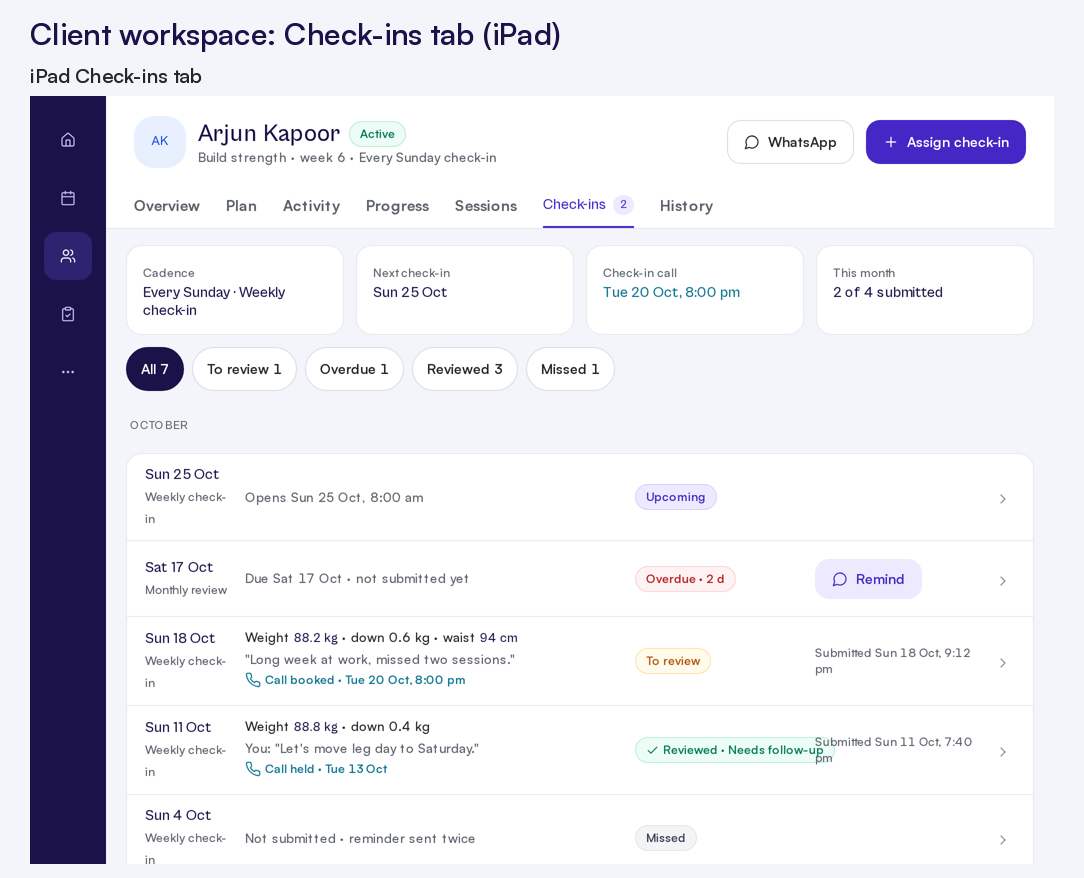
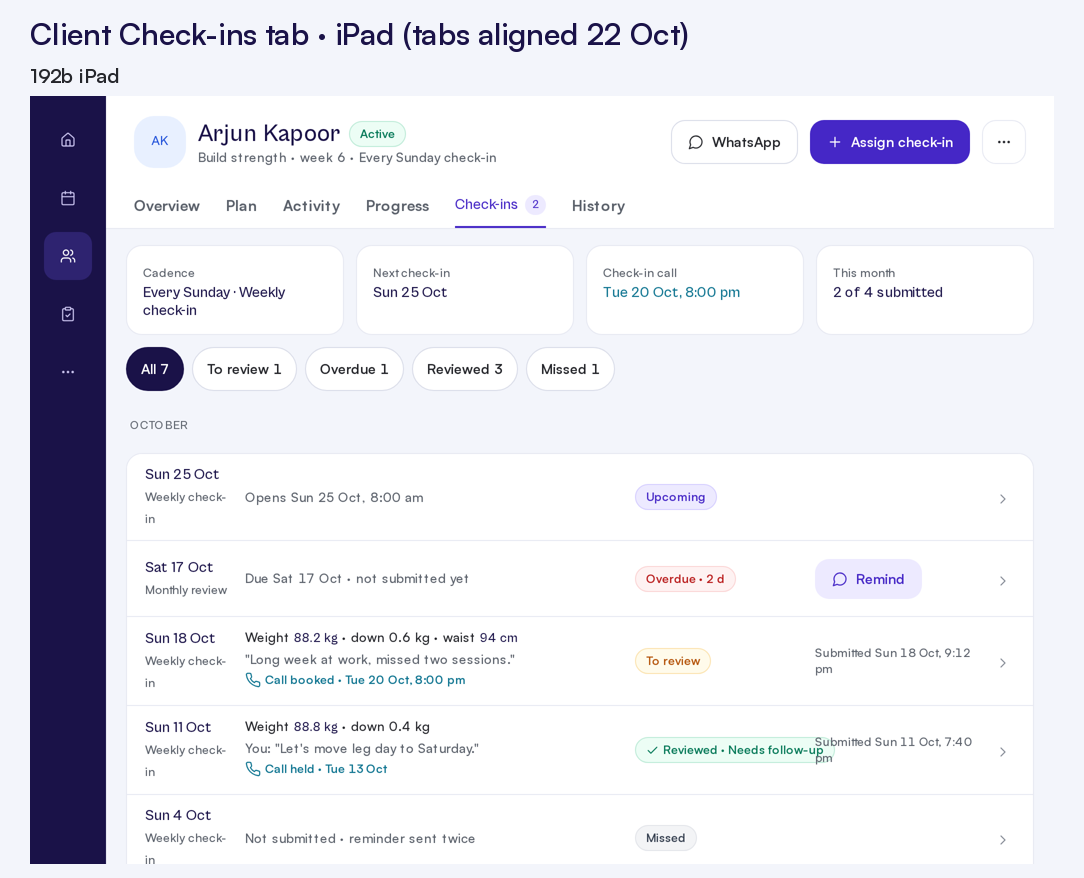
design: 22 Oct round compare sheets (P7–P11, before vs after), P6 regenerated, P2-web removed; README + DESIGN-NOTES (round notes, data gaps); banned-strings fix on 148

diff --git a/docs/design/mockups/html/148-trainer-web-configure-v3-web.html b/docs/design/mockups/html/148-trainer-web-configure-v3-web.html
@@ -76,4 +76,4 @@ h1{font-size:30px;font-weight:600;color:var(--navy);letter-spacing:-.3px}
 .mode{display:grid;grid-template-columns:repeat(3,1fr);gap:10px}.mode a{border:1px solid var(--border-strong);border-radius:14px;padding:12px 14px;font-size:13px;color:var(--ink-500);min-height:84px}.mode a b{display:flex;gap:6px;align-items:center;color:var(--navy);font-size:14px;font-weight:600;margin-bottom:4px}.mode a.on{border-color:var(--indigo);background:var(--lavender-50);box-shadow:inset 0 0 0 1px var(--indigo)}
 .et{width:100%;border-collapse:collapse;font-size:14px}.et th{text-align:left;font-size:12px;color:var(--ink-500);font-weight:600;padding:8px 10px;border-bottom:1px solid var(--border)}.et td{padding:10px;border-bottom:1px solid var(--border);vertical-align:top}.et td b{color:var(--navy);font-weight:600}
 .stp2{display:inline-flex;align-items:center;gap:8px;height:40px;border:1px solid var(--border-strong);border-radius:10px;padding:0 10px;font-weight:600;color:var(--navy)}
-</style></head><body style="width:1440px;height:900px"><div class="web"><aside class="side"><div class="lg"><span style="color:var(--coral)">●</span>FitBud</div><a class="" href="#"><svg class="ic" width="18" height="18" viewBox="0 0 24 24" fill="none" stroke="currentColor" stroke-width="1.75" stroke-linecap="round" stroke-linejoin="round" aria-hidden="true"><path d="M15 21v-8a1 1 0 0 0-1-1h-4a1 1 0 0 0-1 1v8"/><path d="M3 10a2 2 0 0 1 .709-1.528l7-5.999a2 2 0 0 1 2.582 0l7 5.999A2 2 0 0 1 21 10v9a2 2 0 0 1-2 2H5a2 2 0 0 1-2-2z"/></svg>Home<span class=n>11</span></a><a class="" href="#"><svg class="ic" width="18" height="18" viewBox="0 0 24 24" fill="none" stroke="currentColor" stroke-width="1.75" stroke-linecap="round" stroke-linejoin="round" aria-hidden="true"><path d="M8 2v4"/><path d="M16 2v4"/><rect width="18" height="18" x="3" y="4" rx="2"/><path d="M3 10h18"/></svg>Sessions<span class=n>5</span></a><a class="on" href="#"><svg class="ic" width="18" height="18" viewBox="0 0 24 24" fill="none" stroke="currentColor" stroke-width="1.75" stroke-linecap="round" stroke-linejoin="round" aria-hidden="true"><path d="M16 21v-2a4 4 0 0 0-4-4H6a4 4 0 0 0-4 4v2"/><circle cx="9" cy="7" r="4"/><path d="M22 21v-2a4 4 0 0 0-3-3.87"/><path d="M16 3.13a4 4 0 0 1 0 7.75"/></svg>Clients</a><a class="" href="#"><svg class="ic" width="18" height="18" viewBox="0 0 24 24" fill="none" stroke="currentColor" stroke-width="1.75" stroke-linecap="round" stroke-linejoin="round" aria-hidden="true"><rect width="8" height="4" x="8" y="2" rx="1"/><path d="M16 4h2a2 2 0 0 1 2 2v14a2 2 0 0 1-2 2H6a2 2 0 0 1-2-2V6a2 2 0 0 1 2-2h2"/><path d="m9 14 2 2 4-4"/></svg>Check-ins<span class=n>2</span></a><a class="" href="#"><svg class="ic" width="18" height="18" viewBox="0 0 24 24" fill="none" stroke="currentColor" stroke-width="1.75" stroke-linecap="round" stroke-linejoin="round" aria-hidden="true"><rect width="8" height="4" x="8" y="2" rx="1"/><path d="M16 4h2a2 2 0 0 1 2 2v14a2 2 0 0 1-2 2H6a2 2 0 0 1-2-2V6a2 2 0 0 1 2-2h2"/><path d="m9 14 2 2 4-4"/></svg>Templates</a><a class="" href="#"><svg class="ic" width="18" height="18" viewBox="0 0 24 24" fill="none" stroke="currentColor" stroke-width="1.75" stroke-linecap="round" stroke-linejoin="round" aria-hidden="true"><circle cx="12" cy="12" r="1"/><circle cx="19" cy="12" r="1"/><circle cx="5" cy="12" r="1"/></svg>More</a><div class="sp"></div><a href="#"><span class="av a4" style="width:30px;height:30px">RV</span>Rahul Verma</a></aside><div class="main" style="position:relative"><div class="tbar">Clients / Vikram Singh<div class="srch"><svg class="ic" width="16" height="16" viewBox="0 0 24 24" fill="none" stroke="currentColor" stroke-width="1.75" stroke-linecap="round" stroke-linejoin="round" aria-hidden="true"><circle cx="11" cy="11" r="8"/><path d="m21 21-4.3-4.3"/></svg>Search clients<span style="margin-left:auto;font-size:12px">⌘K</span></div><span class="icb" style="border:0"><svg class="ic" width="20" height="20" viewBox="0 0 24 24" fill="none" stroke="currentColor" stroke-width="1.75" stroke-linecap="round" stroke-linejoin="round" aria-hidden="true"><path d="M10.268 21a2 2 0 0 0 3.464 0"/><path d="M3.262 15.326A1 1 0 0 0 4 17h16a1 1 0 0 0 .74-1.673C19.41 13.956 18 12.499 18 8A6 6 0 0 0 6 8c0 4.499-1.411 5.956-2.738 7.326"/></svg><span class="d"></span></span></div><div class="wsh"><div class="row"><span class="av a2" style="width:52px;height:52px;font-size:16px">VS</span><div class="sp" style="min-width:0"><div class="row" style="gap:8px"><b class="b" style="font-size:24px;font-weight:600">Vikram Singh</b><span class="chip sel">Ready to coach</span></div><div class="sm muted" style="margin-top:2px">Marathon prep · No plan yet · Joined Mon 12 Oct · 34 · Male</div></div><a class="btn o sm"><svg class="ic" width="16" height="16" viewBox="0 0 24 24" fill="none" stroke="currentColor" stroke-width="1.75" stroke-linecap="round" stroke-linejoin="round" aria-hidden="true"><path d="M7.9 20A9 9 0 1 0 4 16.1L2 22Z"/></svg>Message on WhatsApp</a><a class="btn p sm">Set up coaching</a><a class="icb" style="border-radius:14px;" aria-label="More for Vikram" title="More for Vikram"><svg class="ic" width="20" height="20" viewBox="0 0 24 24" fill="none" stroke="currentColor" stroke-width="1.75" stroke-linecap="round" stroke-linejoin="round" aria-hidden="true"><circle cx="12" cy="12" r="1"/><circle cx="19" cy="12" r="1"/><circle cx="5" cy="12" r="1"/></svg></a></div><div class="tabs"><a class="">Overview</a><a class="on">Plan</a><a class="">Activity</a><a class="">Progress</a><a class="">Check-ins</a><a class="">History</a></div></div><div class="wbd"><div class="row"><div class="seg2"><a><svg class="ic" width="15" height="15" viewBox="0 0 24 24" fill="none" stroke="currentColor" stroke-width="1.75" stroke-linecap="round" stroke-linejoin="round" aria-hidden="true"><rect width="8" height="4" x="8" y="2" rx="1"/><path d="M16 4h2a2 2 0 0 1 2 2v14a2 2 0 0 1-2 2H6a2 2 0 0 1-2-2V6a2 2 0 0 1 2-2h2"/><path d="m9 14 2 2 4-4"/></svg>&nbsp;Plans</a><a class="on">Coaching setup</a></div><span class="sp"></span><span class="sm muted">Draft saved 9:42 am</span></div><div class="ptr"><svg class="ic" width="15" height="15" viewBox="0 0 24 24" fill="none" stroke="currentColor" stroke-width="1.75" stroke-linecap="round" stroke-linejoin="round" aria-hidden="true"><path d="M19 21v-2a4 4 0 0 0-4-4H9a4 4 0 0 0-4 4v2"/><circle cx="12" cy="7" r="4"/></svg>Name, phone, age and subscription moved to Client settings. Coaching setup is only about how you coach Vikram.<a>Open client settings <svg class="ic" width="14" height="14" viewBox="0 0 24 24" fill="none" stroke="currentColor" stroke-width="1.75" stroke-linecap="round" stroke-linejoin="round" aria-hidden="true"><path d="m9 18 6-6-6-6"/></svg></a></div><div class="acc"><div style="flex:1;min-height:0;overflow:hidden"><div class="ai open"><div class="ah"><span><svg class="ic" width="16" height="16" viewBox="0 0 24 24" fill="none" stroke="currentColor" stroke-width="1.75" stroke-linecap="round" stroke-linejoin="round" aria-hidden="true"><path d="m6 9 6 6 6-6"/></svg></span><b>Goal</b><span class="s">Run a sub-4 h marathon in Mumbai, Jan 2027</span><span class="chip pos"><svg class="ic" width="12" height="12" viewBox="0 0 24 24" fill="none" stroke="currentColor" stroke-width="2.4" stroke-linecap="round" stroke-linejoin="round" aria-hidden="true"><path d="M20 6 9 17l-5-5"/></svg>Done</span></div><div class=abd><div class="wf"><label>Goal · shown to Vikram</label><div class="in">Run a sub-4 h marathon at Tata Mumbai Marathon, Jan 2027</div><span class=hp>58 of 120</span></div><div class="wf"><label>Detailed goal · private</label><div class="in">First full marathon. Ran 21 km in 1:58 in Aug. Wants strength work to protect his right knee (old ITB pain). Travels Mon–Tue for work, so long runs on Sunday only.</div><span class=hp>Only you see this.</span></div></div></div><div class="ai open"><div class="ah"><span><svg class="ic" width="16" height="16" viewBox="0 0 24 24" fill="none" stroke="currentColor" stroke-width="1.75" stroke-linecap="round" stroke-linejoin="round" aria-hidden="true"><path d="m6 9 6 6 6-6"/></svg></span><b>Starting point</b><span class="s">74.2 kg · vegetarian + eggs</span><span class="chip pos"><svg class="ic" width="12" height="12" viewBox="0 0 24 24" fill="none" stroke="currentColor" stroke-width="2.4" stroke-linecap="round" stroke-linejoin="round" aria-hidden="true"><path d="M20 6 9 17l-5-5"/></svg>Done</span></div><div class=abd><div style="display:grid;grid-template-columns:1fr 1fr;gap:12px"><div class="wf"><label>Start weight</label><div class="in">74.2 <span class=muted>kg</span></div><span class=hp>From intake · Mon 12 Oct</span></div><div class="wf"><label>Diet preference</label><div class="in">Vegetarian + eggs<svg class="ic" style="margin-left:auto" width="15" height="15" viewBox="0 0 24 24" fill="none" stroke="currentColor" stroke-width="1.75" stroke-linecap="round" stroke-linejoin="round" aria-hidden="true"><path d="m6 9 6 6 6-6"/></svg></div></div></div></div></div><div class="ai "><div class="ah"><span><svg class="ic" width="16" height="16" viewBox="0 0 24 24" fill="none" stroke="currentColor" stroke-width="1.75" stroke-linecap="round" stroke-linejoin="round" aria-hidden="true"><path d="m9 18 6-6-6-6"/></svg></span><b>Expectations</b><span class="s">Workouts, meals, weight trend</span><span class="chip neu">To do</span></div></div><div class="ai "><div class="ah"><span><svg class="ic" width="16" height="16" viewBox="0 0 24 24" fill="none" stroke="currentColor" stroke-width="1.75" stroke-linecap="round" stroke-linejoin="round" aria-hidden="true"><path d="m9 18 6-6-6-6"/></svg></span><b>Check-ins</b><span class="s">Cadence, window and form</span><span class="chip neu">To do</span></div></div><div class="ai "><div class="ah"><span><svg class="ic" width="16" height="16" viewBox="0 0 24 24" fill="none" stroke="currentColor" stroke-width="1.75" stroke-linecap="round" stroke-linejoin="round" aria-hidden="true"><path d="m9 18 6-6-6-6"/></svg></span><b>Tracking</b><span class="s">Weight weekly · progress photos · session effort</span><span class="chip pos"><svg class="ic" width="12" height="12" viewBox="0 0 24 24" fill="none" stroke="currentColor" stroke-width="2.4" stroke-linecap="round" stroke-linejoin="round" aria-hidden="true"><path d="M20 6 9 17l-5-5"/></svg>Done</span></div></div><div class="ai "><div class="ah"><span><svg class="ic" width="16" height="16" viewBox="0 0 24 24" fill="none" stroke="currentColor" stroke-width="1.75" stroke-linecap="round" stroke-linejoin="round" aria-hidden="true"><path d="m9 18 6-6-6-6"/></svg></span><b>Automatic reminders</b><span class="s">On for workouts and meals · off for check-ins</span><span class="chip pos"><svg class="ic" width="12" height="12" viewBox="0 0 24 24" fill="none" stroke="currentColor" stroke-width="2.4" stroke-linecap="round" stroke-linejoin="round" aria-hidden="true"><path d="M20 6 9 17l-5-5"/></svg>Done</span></div></div></div><div class="ft"><span class="chip neu"><svg class="ic" width="12" height="12" viewBox="0 0 24 24" fill="none" stroke="currentColor" stroke-width="1.75" stroke-linecap="round" stroke-linejoin="round" aria-hidden="true"><path d="M12 20h9"/><path d="M16.5 3.5a2.12 2.12 0 0 1 3 3L7 19l-4 1 1-4Z"/></svg>Draft</span><span class="sm muted">2 sections left: Expectations, Check-ins</span><span class="sp"></span><a class="btn o sm">Save draft</a><a class="btn dis sm" aria-disabled="true">Activate</a></div></div></div></div></div></body></html>
+</style></head><body style="width:1440px;height:900px"><div class="web"><aside class="side"><div class="lg"><span style="color:var(--coral)">●</span>FitBud</div><a class="" href="#"><svg class="ic" width="18" height="18" viewBox="0 0 24 24" fill="none" stroke="currentColor" stroke-width="1.75" stroke-linecap="round" stroke-linejoin="round" aria-hidden="true"><path d="M15 21v-8a1 1 0 0 0-1-1h-4a1 1 0 0 0-1 1v8"/><path d="M3 10a2 2 0 0 1 .709-1.528l7-5.999a2 2 0 0 1 2.582 0l7 5.999A2 2 0 0 1 21 10v9a2 2 0 0 1-2 2H5a2 2 0 0 1-2-2z"/></svg>Home<span class=n>11</span></a><a class="" href="#"><svg class="ic" width="18" height="18" viewBox="0 0 24 24" fill="none" stroke="currentColor" stroke-width="1.75" stroke-linecap="round" stroke-linejoin="round" aria-hidden="true"><path d="M8 2v4"/><path d="M16 2v4"/><rect width="18" height="18" x="3" y="4" rx="2"/><path d="M3 10h18"/></svg>Sessions<span class=n>5</span></a><a class="on" href="#"><svg class="ic" width="18" height="18" viewBox="0 0 24 24" fill="none" stroke="currentColor" stroke-width="1.75" stroke-linecap="round" stroke-linejoin="round" aria-hidden="true"><path d="M16 21v-2a4 4 0 0 0-4-4H6a4 4 0 0 0-4 4v2"/><circle cx="9" cy="7" r="4"/><path d="M22 21v-2a4 4 0 0 0-3-3.87"/><path d="M16 3.13a4 4 0 0 1 0 7.75"/></svg>Clients</a><a class="" href="#"><svg class="ic" width="18" height="18" viewBox="0 0 24 24" fill="none" stroke="currentColor" stroke-width="1.75" stroke-linecap="round" stroke-linejoin="round" aria-hidden="true"><rect width="8" height="4" x="8" y="2" rx="1"/><path d="M16 4h2a2 2 0 0 1 2 2v14a2 2 0 0 1-2 2H6a2 2 0 0 1-2-2V6a2 2 0 0 1 2-2h2"/><path d="m9 14 2 2 4-4"/></svg>Check-ins<span class=n>2</span></a><a class="" href="#"><svg class="ic" width="18" height="18" viewBox="0 0 24 24" fill="none" stroke="currentColor" stroke-width="1.75" stroke-linecap="round" stroke-linejoin="round" aria-hidden="true"><rect width="8" height="4" x="8" y="2" rx="1"/><path d="M16 4h2a2 2 0 0 1 2 2v14a2 2 0 0 1-2 2H6a2 2 0 0 1-2-2V6a2 2 0 0 1 2-2h2"/><path d="m9 14 2 2 4-4"/></svg>Templates</a><a class="" href="#"><svg class="ic" width="18" height="18" viewBox="0 0 24 24" fill="none" stroke="currentColor" stroke-width="1.75" stroke-linecap="round" stroke-linejoin="round" aria-hidden="true"><circle cx="12" cy="12" r="1"/><circle cx="19" cy="12" r="1"/><circle cx="5" cy="12" r="1"/></svg>More</a><div class="sp"></div><a href="#"><span class="av a4" style="width:30px;height:30px">RV</span>Rahul Verma</a></aside><div class="main" style="position:relative"><div class="tbar">Clients / Vikram Singh<div class="srch"><svg class="ic" width="16" height="16" viewBox="0 0 24 24" fill="none" stroke="currentColor" stroke-width="1.75" stroke-linecap="round" stroke-linejoin="round" aria-hidden="true"><circle cx="11" cy="11" r="8"/><path d="m21 21-4.3-4.3"/></svg>Search clients<span style="margin-left:auto;font-size:12px">⌘K</span></div><span class="icb" style="border:0"><svg class="ic" width="20" height="20" viewBox="0 0 24 24" fill="none" stroke="currentColor" stroke-width="1.75" stroke-linecap="round" stroke-linejoin="round" aria-hidden="true"><path d="M10.268 21a2 2 0 0 0 3.464 0"/><path d="M3.262 15.326A1 1 0 0 0 4 17h16a1 1 0 0 0 .74-1.673C19.41 13.956 18 12.499 18 8A6 6 0 0 0 6 8c0 4.499-1.411 5.956-2.738 7.326"/></svg><span class="d"></span></span></div><div class="wsh"><div class="row"><span class="av a2" style="width:52px;height:52px;font-size:16px">VS</span><div class="sp" style="min-width:0"><div class="row" style="gap:8px"><b class="b" style="font-size:24px;font-weight:600">Vikram Singh</b><span class="chip sel">Ready to coach</span></div><div class="sm muted" style="margin-top:2px">Marathon prep · No plan yet · Joined Mon 12 Oct · 34 · Male</div></div><a class="btn o sm"><svg class="ic" width="16" height="16" viewBox="0 0 24 24" fill="none" stroke="currentColor" stroke-width="1.75" stroke-linecap="round" stroke-linejoin="round" aria-hidden="true"><path d="M7.9 20A9 9 0 1 0 4 16.1L2 22Z"/></svg>Message on WhatsApp</a><a class="btn p sm">Set up coaching</a><a class="icb" style="border-radius:14px;" aria-label="More for Vikram" title="More for Vikram"><svg class="ic" width="20" height="20" viewBox="0 0 24 24" fill="none" stroke="currentColor" stroke-width="1.75" stroke-linecap="round" stroke-linejoin="round" aria-hidden="true"><circle cx="12" cy="12" r="1"/><circle cx="19" cy="12" r="1"/><circle cx="5" cy="12" r="1"/></svg></a></div><div class="tabs"><a class="">Overview</a><a class="on">Plan</a><a class="">Activity</a><a class="">Progress</a><a class="">Check-ins</a><a class="">History</a></div></div><div class="wbd"><div class="row"><div class="seg2"><a><svg class="ic" width="15" height="15" viewBox="0 0 24 24" fill="none" stroke="currentColor" stroke-width="1.75" stroke-linecap="round" stroke-linejoin="round" aria-hidden="true"><rect width="8" height="4" x="8" y="2" rx="1"/><path d="M16 4h2a2 2 0 0 1 2 2v14a2 2 0 0 1-2 2H6a2 2 0 0 1-2-2V6a2 2 0 0 1 2-2h2"/><path d="m9 14 2 2 4-4"/></svg>&nbsp;Plans</a><a class="on">Coaching setup</a></div><span class="sp"></span><span class="sm muted">Draft saved 9:42 am</span></div><div class="ptr"><svg class="ic" width="15" height="15" viewBox="0 0 24 24" fill="none" stroke="currentColor" stroke-width="1.75" stroke-linecap="round" stroke-linejoin="round" aria-hidden="true"><path d="M19 21v-2a4 4 0 0 0-4-4H9a4 4 0 0 0-4 4v2"/><circle cx="12" cy="7" r="4"/></svg>Name, phone, age and subscription moved to Client settings. Coaching setup is only about how you coach Vikram.<a>Open client settings <svg class="ic" width="14" height="14" viewBox="0 0 24 24" fill="none" stroke="currentColor" stroke-width="1.75" stroke-linecap="round" stroke-linejoin="round" aria-hidden="true"><path d="m9 18 6-6-6-6"/></svg></a></div><div class="acc"><div style="flex:1;min-height:0;overflow:hidden"><div class="ai open"><div class="ah"><span><svg class="ic" width="16" height="16" viewBox="0 0 24 24" fill="none" stroke="currentColor" stroke-width="1.75" stroke-linecap="round" stroke-linejoin="round" aria-hidden="true"><path d="m6 9 6 6 6-6"/></svg></span><b>Goal</b><span class="s">Run a under-4-hour marathon in Mumbai, Jan 2027</span><span class="chip pos"><svg class="ic" width="12" height="12" viewBox="0 0 24 24" fill="none" stroke="currentColor" stroke-width="2.4" stroke-linecap="round" stroke-linejoin="round" aria-hidden="true"><path d="M20 6 9 17l-5-5"/></svg>Done</span></div><div class=abd><div class="wf"><label>Goal · shown to Vikram</label><div class="in">Run a under-4-hour marathon at Tata Mumbai Marathon, Jan 2027</div><span class=hp>58 of 120</span></div><div class="wf"><label>Detailed goal · private</label><div class="in">First full marathon. Ran 21 km in 1 h 58 min in Aug. Wants strength work to protect his right knee (old ITB pain). Travels Mon–Tue for work, so long runs on Sunday only.</div><span class=hp>Only you see this.</span></div></div></div><div class="ai open"><div class="ah"><span><svg class="ic" width="16" height="16" viewBox="0 0 24 24" fill="none" stroke="currentColor" stroke-width="1.75" stroke-linecap="round" stroke-linejoin="round" aria-hidden="true"><path d="m6 9 6 6 6-6"/></svg></span><b>Starting point</b><span class="s">74.2 kg · vegetarian + eggs</span><span class="chip pos"><svg class="ic" width="12" height="12" viewBox="0 0 24 24" fill="none" stroke="currentColor" stroke-width="2.4" stroke-linecap="round" stroke-linejoin="round" aria-hidden="true"><path d="M20 6 9 17l-5-5"/></svg>Done</span></div><div class=abd><div style="display:grid;grid-template-columns:1fr 1fr;gap:12px"><div class="wf"><label>Start weight</label><div class="in">74.2 <span class=muted>kg</span></div><span class=hp>From intake · Mon 12 Oct</span></div><div class="wf"><label>Diet preference</label><div class="in">Vegetarian + eggs<svg class="ic" style="margin-left:auto" width="15" height="15" viewBox="0 0 24 24" fill="none" stroke="currentColor" stroke-width="1.75" stroke-linecap="round" stroke-linejoin="round" aria-hidden="true"><path d="m6 9 6 6 6-6"/></svg></div></div></div></div></div><div class="ai "><div class="ah"><span><svg class="ic" width="16" height="16" viewBox="0 0 24 24" fill="none" stroke="currentColor" stroke-width="1.75" stroke-linecap="round" stroke-linejoin="round" aria-hidden="true"><path d="m9 18 6-6-6-6"/></svg></span><b>Expectations</b><span class="s">Workouts, meals, weight trend</span><span class="chip neu">To do</span></div></div><div class="ai "><div class="ah"><span><svg class="ic" width="16" height="16" viewBox="0 0 24 24" fill="none" stroke="currentColor" stroke-width="1.75" stroke-linecap="round" stroke-linejoin="round" aria-hidden="true"><path d="m9 18 6-6-6-6"/></svg></span><b>Check-ins</b><span class="s">Cadence, window and form</span><span class="chip neu">To do</span></div></div><div class="ai "><div class="ah"><span><svg class="ic" width="16" height="16" viewBox="0 0 24 24" fill="none" stroke="currentColor" stroke-width="1.75" stroke-linecap="round" stroke-linejoin="round" aria-hidden="true"><path d="m9 18 6-6-6-6"/></svg></span><b>Tracking</b><span class="s">Weight weekly · progress photos · session effort</span><span class="chip pos"><svg class="ic" width="12" height="12" viewBox="0 0 24 24" fill="none" stroke="currentColor" stroke-width="2.4" stroke-linecap="round" stroke-linejoin="round" aria-hidden="true"><path d="M20 6 9 17l-5-5"/></svg>Done</span></div></div><div class="ai "><div class="ah"><span><svg class="ic" width="16" height="16" viewBox="0 0 24 24" fill="none" stroke="currentColor" stroke-width="1.75" stroke-linecap="round" stroke-linejoin="round" aria-hidden="true"><path d="m9 18 6-6-6-6"/></svg></span><b>Automatic reminders</b><span class="s">On for workouts and meals · off for check-ins</span><span class="chip pos"><svg class="ic" width="12" height="12" viewBox="0 0 24 24" fill="none" stroke="currentColor" stroke-width="2.4" stroke-linecap="round" stroke-linejoin="round" aria-hidden="true"><path d="M20 6 9 17l-5-5"/></svg>Done</span></div></div></div><div class="ft"><span class="chip neu"><svg class="ic" width="12" height="12" viewBox="0 0 24 24" fill="none" stroke="currentColor" stroke-width="1.75" stroke-linecap="round" stroke-linejoin="round" aria-hidden="true"><path d="M12 20h9"/><path d="M16.5 3.5a2.12 2.12 0 0 1 3 3L7 19l-4 1 1-4Z"/></svg>Draft</span><span class="sm muted">2 sections left: Expectations, Check-ins</span><span class="sp"></span><a class="btn o sm">Save draft</a><a class="btn dis sm" aria-disabled="true">Activate</a></div></div></div></div></div></body></html>

diff --git a/docs/design/mockups/tools/p13_coaching_setup.py b/docs/design/mockups/tools/p13_coaching_setup.py
@@ -21,9 +21,9 @@ def bar(right): return f'<div class="row"><div class="seg2"><a>{ic("clip",15)}&n
 def page_(k,right,n,items,foot,extra=''):
     return wpage(k,bar(right)+ptr(n)+f'<div class="acc"><div style="flex:1;min-height:0;overflow:hidden">{items}</div><div class="ft">{foot}</div></div>','Plan',extra=X+extra,count=0 if k=='vikram' else 1)
 # 148 Vikram, new client draft
-goal=wf('Goal · shown to Vikram','Run a sub-4 h marathon at Tata Mumbai Marathon, Jan 2027','58 of 120')+wf('Detailed goal · private','First full marathon. Ran 21 km in 1:58 in Aug. Wants strength work to protect his right knee (old ITB pain). Travels Mon–Tue for work, so long runs on Sunday only.','Only you see this.')
+goal=wf('Goal · shown to Vikram','Run a under-4-hour marathon at Tata Mumbai Marathon, Jan 2027','58 of 120')+wf('Detailed goal · private','First full marathon. Ran 21 km in 1 h 58 min in Aug. Wants strength work to protect his right knee (old ITB pain). Travels Mon–Tue for work, so long runs on Sunday only.','Only you see this.')
 start='<div style="display:grid;grid-template-columns:1fr 1fr;gap:12px">'+wf('Start weight','74.2 <span class=muted>kg</span>','From intake · Mon 12 Oct')+wf('Diet preference','Vegetarian + eggs'+ic("down",15).replace('class="ic"','class="ic" style="margin-left:auto"'))+'</div>'
-items=ai('Goal','Run a sub-4 h marathon in Mumbai, Jan 2027',DONE,goal)+ai('Starting point','74.2 kg · vegetarian + eggs',DONE,start)+ai('Expectations','Workouts, meals, weight trend',TODO)+ai('Check-ins','Cadence, window and form',TODO)+ai('Tracking','Weight weekly · progress photos · session effort',DONE)+ai('Automatic reminders','On for workouts and meals · off for check-ins',DONE)
+items=ai('Goal','Run a under-4-hour marathon in Mumbai, Jan 2027',DONE,goal)+ai('Starting point','74.2 kg · vegetarian + eggs',DONE,start)+ai('Expectations','Workouts, meals, weight trend',TODO)+ai('Check-ins','Cadence, window and form',TODO)+ai('Tracking','Weight weekly · progress photos · session effort',DONE)+ai('Automatic reminders','On for workouts and meals · off for check-ins',DONE)
 foot=f'<span class="chip neu">{ic("edit",12)}Draft</span><span class="sm muted">2 sections left: Expectations, Check-ins</span><span class="sp"></span><a class="btn o sm">Save draft</a><a class="btn dis sm" aria-disabled="true">Activate</a>'
 save('148-trainer-web-configure-v3-web',page_('vikram','Draft saved 9:42 am','Vikram',items,foot))
 # 149 Rohan active, Expectations editing (targets only)

diff --git a/docs/design/mockups/tools/compare.py b/docs/design/mockups/tools/compare.py
@@ -1,0 +1,24 @@
+# Old-vs-new compare grid: one row per screen, BEFORE (from git) | AFTER. Usage: from compare import grid
+from PIL import Image,ImageDraw,ImageFont
+def F(s): return ImageFont.truetype('html/fonts/Satoshi-600.ttf',s)
+def grid(rows,out,title,h=560,cols=1):
+    # rows: (label, old_path|None, new_path); cols = rows per line of the sheet
+    def ld(p): 
+        im=Image.open(p).convert('RGB');return im.resize((int(im.width*h/im.height),h))
+    cells=[]
+    for l,o,n in rows:
+        ni=ld(n);oi=ld(o) if o else None
+        cw=(oi.width if oi else ni.width)+ni.width+90
+        cells.append((l,oi,ni,cw))
+    lines=[cells[i:i+cols] for i in range(0,len(cells),cols)]
+    W=max(sum(c[3] for c in ln)+40*(len(ln)+1) for ln in lines);RH=h+90
+    S=Image.new('RGB',(W,90+RH*len(lines)),'#F3F5FB');d=ImageDraw.Draw(S);d.text((40,24),title,fill='#1A1248',font=F(34))
+    for r,ln in enumerate(lines):
+        x=40;y=90+r*RH
+        for l,oi,ni,cw in ln:
+            d.text((x,y),l,fill='#25262B',font=F(22))
+            if oi: d.text((x,y+34),'BEFORE',fill='#B91C1C',font=F(16));S.paste(oi,(x,y+58));x2=x+oi.width+30
+            else:
+                w=ni.width;d.rectangle([x,y+58,x+w,y+58+h],fill='#E9E7F2');d.text((x+20,y+80),'NEW FRAME (no earlier version)',fill='#5B616B',font=F(20));x2=x+w+30
+            d.text((x2,y+34),'AFTER',fill='#047857',font=F(16));S.paste(ni,(x2,y+58));x=x2+ni.width+60
+    S.save(out,optimize=True)

diff --git a/docs/design/README.md b/docs/design/README.md
@@ -3,6 +3,7 @@
 Everything design lives here. **One file per screen state; if it is not in `mockups/png/`, it is not the design.** Consolidated 22 Oct 2026 from `docs/spec/mockups/`, `docs/spec/mockups-v2/`, `docs/spec/redesign/` (today-rings, v3) and `docs/design/figma/`; older versions, rejected options and superseded frames were removed (see git history of commit "design: single source of truth" if you ever need them).
 
 ## Precedence
+0. **Draft (22 Oct)** frames: the 22 Oct design round (see below). They replace the earlier frame with the same ID and wait for Firoz to lock them.
 1. **v3 frames** (`*-v3-*`, locked 21 Oct 2026 by Firoz): [DECISIONS-21OCT.md](DECISIONS-21OCT.md).
 2. **Original frames** (approved 18–21 Oct): [DESIGN-NOTES.md](DESIGN-NOTES.md). Where an original frame shows something a v3 decision changed (old Today ring card, old trainer tab bar "Attention · Clients · Check-ins · More", the exception drawer), follow the v3 decision; the Status column flags these.
 3. Content rules always apply: [../spec/01-product-rules.md](../spec/01-product-rules.md), [../spec/banned-strings.json](../spec/banned-strings.json).
@@ -10,13 +11,22 @@ Everything design lives here. **One file per screen state; if it is not in `mock
 Locked decisions in brief: Today = Option B (kcal ring + macro bars + Workout/Meals/Steps chips); Active workout (11, 11b) is **light**; Mark reviewed moves the client to a Reviewed section until every item is resolved; every coach gets a Sessions tab (calendar lives inside Sessions on web); client Check-ins tab with an Overdue filter is web/iPad only (trainer-mobile check-in history removed; trainer mobile = quick jobs).
 
 ## Layout
-- `mockups/png/` — 248 frames (42 v3 locked + 206 original). iOS 393 × 852, Android 412 × 915 (v3 Android 393 × 852 @2x), web 1440 × 900, iPad 1024 × 768 / 768 × 1024.
-- `mockups/html/` — 75 HTML sources, named exactly like their PNG, plus shared `tokens.css`, `m2.css`, `l3.css`, `and6.css`, `fonts/`, `assets/`. Frames without HTML (most of 31–199 and the notification set) were rendered by a retired generator; the PNG is the source.
-- `mockups/compare/` — contact sheets of final (v3) screens only.
-- `mockups/tools/` — v3 generators (`p1…p6_*.py` on `fb.py`), `render.mjs` (re-renders `*-v3*` only), `sheet.py` (contact sheets), `check.mjs` (banned strings). Run from `docs/design/mockups/`: `node tools/check.mjs`.
+- `mockups/png/` — 267 frames (42 v3 locked, 35 v3 drafts from the 22 Oct round, 190 original incl. 1 reference). iOS 393 × 852, Android 412 × 915 (v3 Android 393 × 852 @2x), web 1440 × 900, iPad 1024 × 768 / 768 × 1024.
+- `mockups/html/` — 110 HTML sources, named exactly like their PNG, plus shared `tokens.css`, `m2.css`, `l3.css`, `and6.css`, `fonts/`, `assets/`. Frames without HTML (most of 31–199 and the notification set) were rendered by a retired generator; the PNG is the source.
+- `mockups/compare/` — contact sheets of v3 screens; `P7`–`P11` are the 22 Oct round (before vs after, old frames taken from git).
+- `mockups/tools/` — v3 generators (`p1…p13_*.py` on `fb.py`; client workspace frames on `cw.py`), `compare.py` (before/after grids), `render.mjs` (re-renders `*-v3*` only), `sheet.py` (contact sheets), `check.mjs` (banned strings). Run from `docs/design/mockups/`: `node tools/check.mjs`.
 - [DESIGN-NOTES.md](DESIGN-NOTES.md) (tokens, components, per-set notes), [DECISIONS-21OCT.md](DECISIONS-21OCT.md) (locked v3 decisions), `reviews/` (audit and review rationale: AUDIT-21OCT, review-pre-v3, sessions-offline, PHASE0-ACTIVE-WORKOUT-THEME).
 
 **ID note:** `200` is used twice: `200-trainer-web-plan-filtered-web` (original, Plan tab) and `200-trainer-web-calendar-v3-web` (v3, Sessions calendar). File names are unique; refer to frames by file name.
+
+## 22 Oct design round (drafts, awaiting lock)
+- **Today states on v3 Today:** 29, 29b, 96 (skeleton mirrors v3 layout), 104, 113, 115 redrawn on Option B.
+- **Web Home side panel:** 02 (default, resolve form, resolved + Undo + Next), 131, 132, 133 redrawn as one fully open docked panel with a sticky action footer (clean states of the old drawer, v3 Mark reviewed → Reviewed model). The old drawer frames 129/130/134 were already removed on 22 Oct. Note: "01" is the sign-in screen and has no side panel; the side-panel frames are the two 02 frames plus 131–133.
+- **150 Plans:** the current workout and nutrition plans now sit in one "current program" card with a Workout part and a Nutrition part.
+- **160 Progress:** metric picker (body measurements, check-in answers 1–5, workouts from logs, photos), range 4 w / 12 w / All / Custom, Compare with…, and states 160–160i + 161.
+- **181 Reminders drawer:** entry is the client Overview **Reminders** side card → **Details** (TW-31), shown in 03c and drawn over the Overview in 181. Also reachable from a line in the review panel (TW-05) and check-in review (TW-20).
+- **Client workspace tabs** are always Overview · Plan · Activity · Progress · Check-ins · History (TW-09a). No Sessions / Packages / Configure tabs: coaching setup is Plan › Coaching setup (148, 149, IP-07 coaching mode); sessions live in the Sessions area; basic details and subscription & package live in **Client settings**, opened from the header ⋯ menu (208, 208b → 209–212, IP-08). The v3 Check-ins tab frames (162 set, 192b) were aligned (Sessions tab removed, ⋯ added).
+- **149:** the new 149 (targets only) is the primary version; the old one with the "Raises a flag when" column is kept as `149-…-ref` (Reference, future scope).
 
 ## Screen index
 | ID | Screen | State | Platform | PNG | HTML | Status |

diff --git a/docs/design/DESIGN-NOTES.md b/docs/design/DESIGN-NOTES.md
@@ -402,3 +402,25 @@ Structure unchanged (week strip → rings + legend → navy workout → meals). 
 - Workout highlight: navy gradient with a radial glow, a large faint dumbbell watermark, a 52pt icon tile, and a meta row (exercises, minutes, sets). The white pill Start button has a play icon. The "Today's workout" section header was removed (the card has its own time tag).
 - Cards use a 24pt radius and soft, layered shadows instead of borders. Spacing is on an 8pt grid.
 - 2x inspection crop: png/04-trainee-today-ring-card-2x.png (removed 22 Oct with the rings card)
+
+## 22 Oct design round (drafts)
+Generators: `mockups/tools/p7_today_states.py` (Today states), `p8_home_panel.py` (Home side panel), `p9_plans.py` (150), `p10_progress.py` (160/161), `p11_client_settings.py` (03c, 181, 208–212, IP-08), `p13_coaching_setup.py` (148, 149, IP-07), all on `fb.py`; client workspace frames share `cw.py` (header, tabs, ⋯ menu, iPad rail). Render with `node tools/render.mjs <id-prefix>`.
+
+**Today states.** Every Today state reuses the locked Option B card (`p1_today.screen(...)` now takes `pre`, `after_wo`, `overlay`, `cloud`, `meal_chips`). In-app banner = white card, app mark, title + one line, chevron (44 pt). Offline = amber strip at the top, cloud-off icon, "Waiting to send" info chip on the unsent meal. Skeleton keeps the real header and week strip and greys the ring, bars, chips, workout card and meal rows in place.
+
+**Home side panel (web).** Docked 540 px panel, full height under the top bar, no scrim (the list stays readable and the selected row is marked). Header: avatar, name, meta, prev/next with "n of m", close; progress dashes with the state chip on the right. Body: title + age, source card (plan, window, logged), signals, Also open, timeline. Sticky footer holds the actions: Mark reviewed · Nudge on WhatsApp… · ⋯ · Resolve…; after resolving it becomes "n of m resolved · Next item". Resolve form = outcome chips + private note, footer Cancel / Resolve item with the lock helper. Nudge limit and client quiet hours are inline notices; Nudge is disabled, not hidden. Resolved items open read-only with the green resolution line. Missing item = empty state with Back to item / Next client.
+
+**Plans (150).** One "current program" card: lavender header with the program name, week n of m and date range, then two parts divided by a dashed rule, each with a WORKOUT / NUTRITION label, its own version/date line, a 7-day strip and Open builder. The versions table stays below, with the column renamed Part.
+
+**Progress (160).** Left metric list grouped by source (Body · from check-ins, Check-in answers · 1 to 5, Workouts · from logs, Photos) with the latest value; multi-select checkboxes where lines share a scale. Main card: title + source line, stat row (start, latest, change, entries), SVG chart (gaps break the line and are labelled "no check-in"), latest entries table. Lines differ by pattern (solid / dashed / dotted), never colour alone. Compare uses two labelled scales and says FitBud doesn't link cause and effect. Neutral wording only: change, no good/bad, no red for gain.
+
+**Client settings.** Page reached from the header ⋯ menu (Client settings is the first item), not a tab. Left section nav (Basic details · Subscription & package · Coaching relationship) plus a pointer to Plan › Coaching setup. Edits open a 560 px drawer with a sticky Cancel / Save footer; validation shows an error summary at the top, the field error inline, and disables Save. Payment records are plain records ("For your records only. FitBud doesn't take or track payments."). Package card (hybrid / in-person only): sessions dots, used / left, counts-as-used rules, Renew package, low-sessions notice with a WhatsApp draft. Ended clients: grey read-only banner, no Edit buttons, Reactivate stays in the header.
+
+**Coaching setup (148, 149, IP-07).** Accordion with summaries; Basics → **Starting point** (start weight, diet preference); Subscription removed. A blue pointer line at the top links to Client settings. Hybrid/in-person clients get a **Coaching mode** section (mode cards, usual place, slot, group).
+
+### Data gaps found (for Firoz)
+- Measurements have one untyped `other` type, so extra measurements (arm, thigh) can't be charted separately; the picker shows only weight, waist, hip, chest.
+- Sleep, energy and stress exist only as 1–5 answers in the check-in form (`fieldAnswers`), not hours; they show only if the client's form has those questions.
+- Set loads are stored as text labels (`actual_load_label`), so a top-set chart needs a numeric load field. TW-18 also says "no strength charts (deferred)"; 160e is designed on Firoz's request and needs a spec change.
+- Subscription has no amount or payment fields, and Confluence lists payments as a non-goal; payment records and packages follow the 21 Oct decision ("records only") and need new fields.
+- Pause coaching isn't in any spec, so Client settings shows only End coaching / Reactivate.

diff --git a/docs/design/DECISIONS-21OCT.md b/docs/design/DECISIONS-21OCT.md
@@ -53,7 +53,7 @@ Search result: the only existing list was the original 162-trainer-web-client-ch
 - Screens (web/iPad only): 162-…-v3-web, 162b empty, 162c ended, 192b-ipad.
 
 ## Compare sheets
-mockups/compare/ (final screens only; the 21 Oct "current vs v3" sheets were dropped 22 Oct and P2-mobile, P2-web, P3-sessions-mobile, P4-web, P6-web regenerated without the old frames): P1-today-ios-states, P1-today-android-states, P2-mobile-review-flow, P2-web-home-panel, P3-sessions-mobile, P4-calendar-web, P4-calendar-mobile, P5-sessions-online-only, P6-client-checkins-tab-web, P6-client-checkins-tab-ipad. (P1-sbs-today-current-vs-v3 and P3-ipad-group dropped: they compared against removed frames.)
+mockups/compare/ (final screens only; the 21 Oct "current vs v3" sheets were dropped 22 Oct and P2-mobile, P2-web, P3-sessions-mobile, P4-web, P6-web regenerated without the old frames): P1-today-ios-states, P1-today-android-states, P2-mobile-review-flow, (P2-web-home-panel removed 22 Oct, replaced by P8-home-side-panel-old-vs-new), P3-sessions-mobile, P4-calendar-web, P4-calendar-mobile, P5-sessions-online-only, P6-client-checkins-tab-web, P6-client-checkins-tab-ipad. (P1-sbs-today-current-vs-v3 and P3-ipad-group dropped: they compared against removed frames.)
 
 ## Screen index
 | PNG | HTML source |
